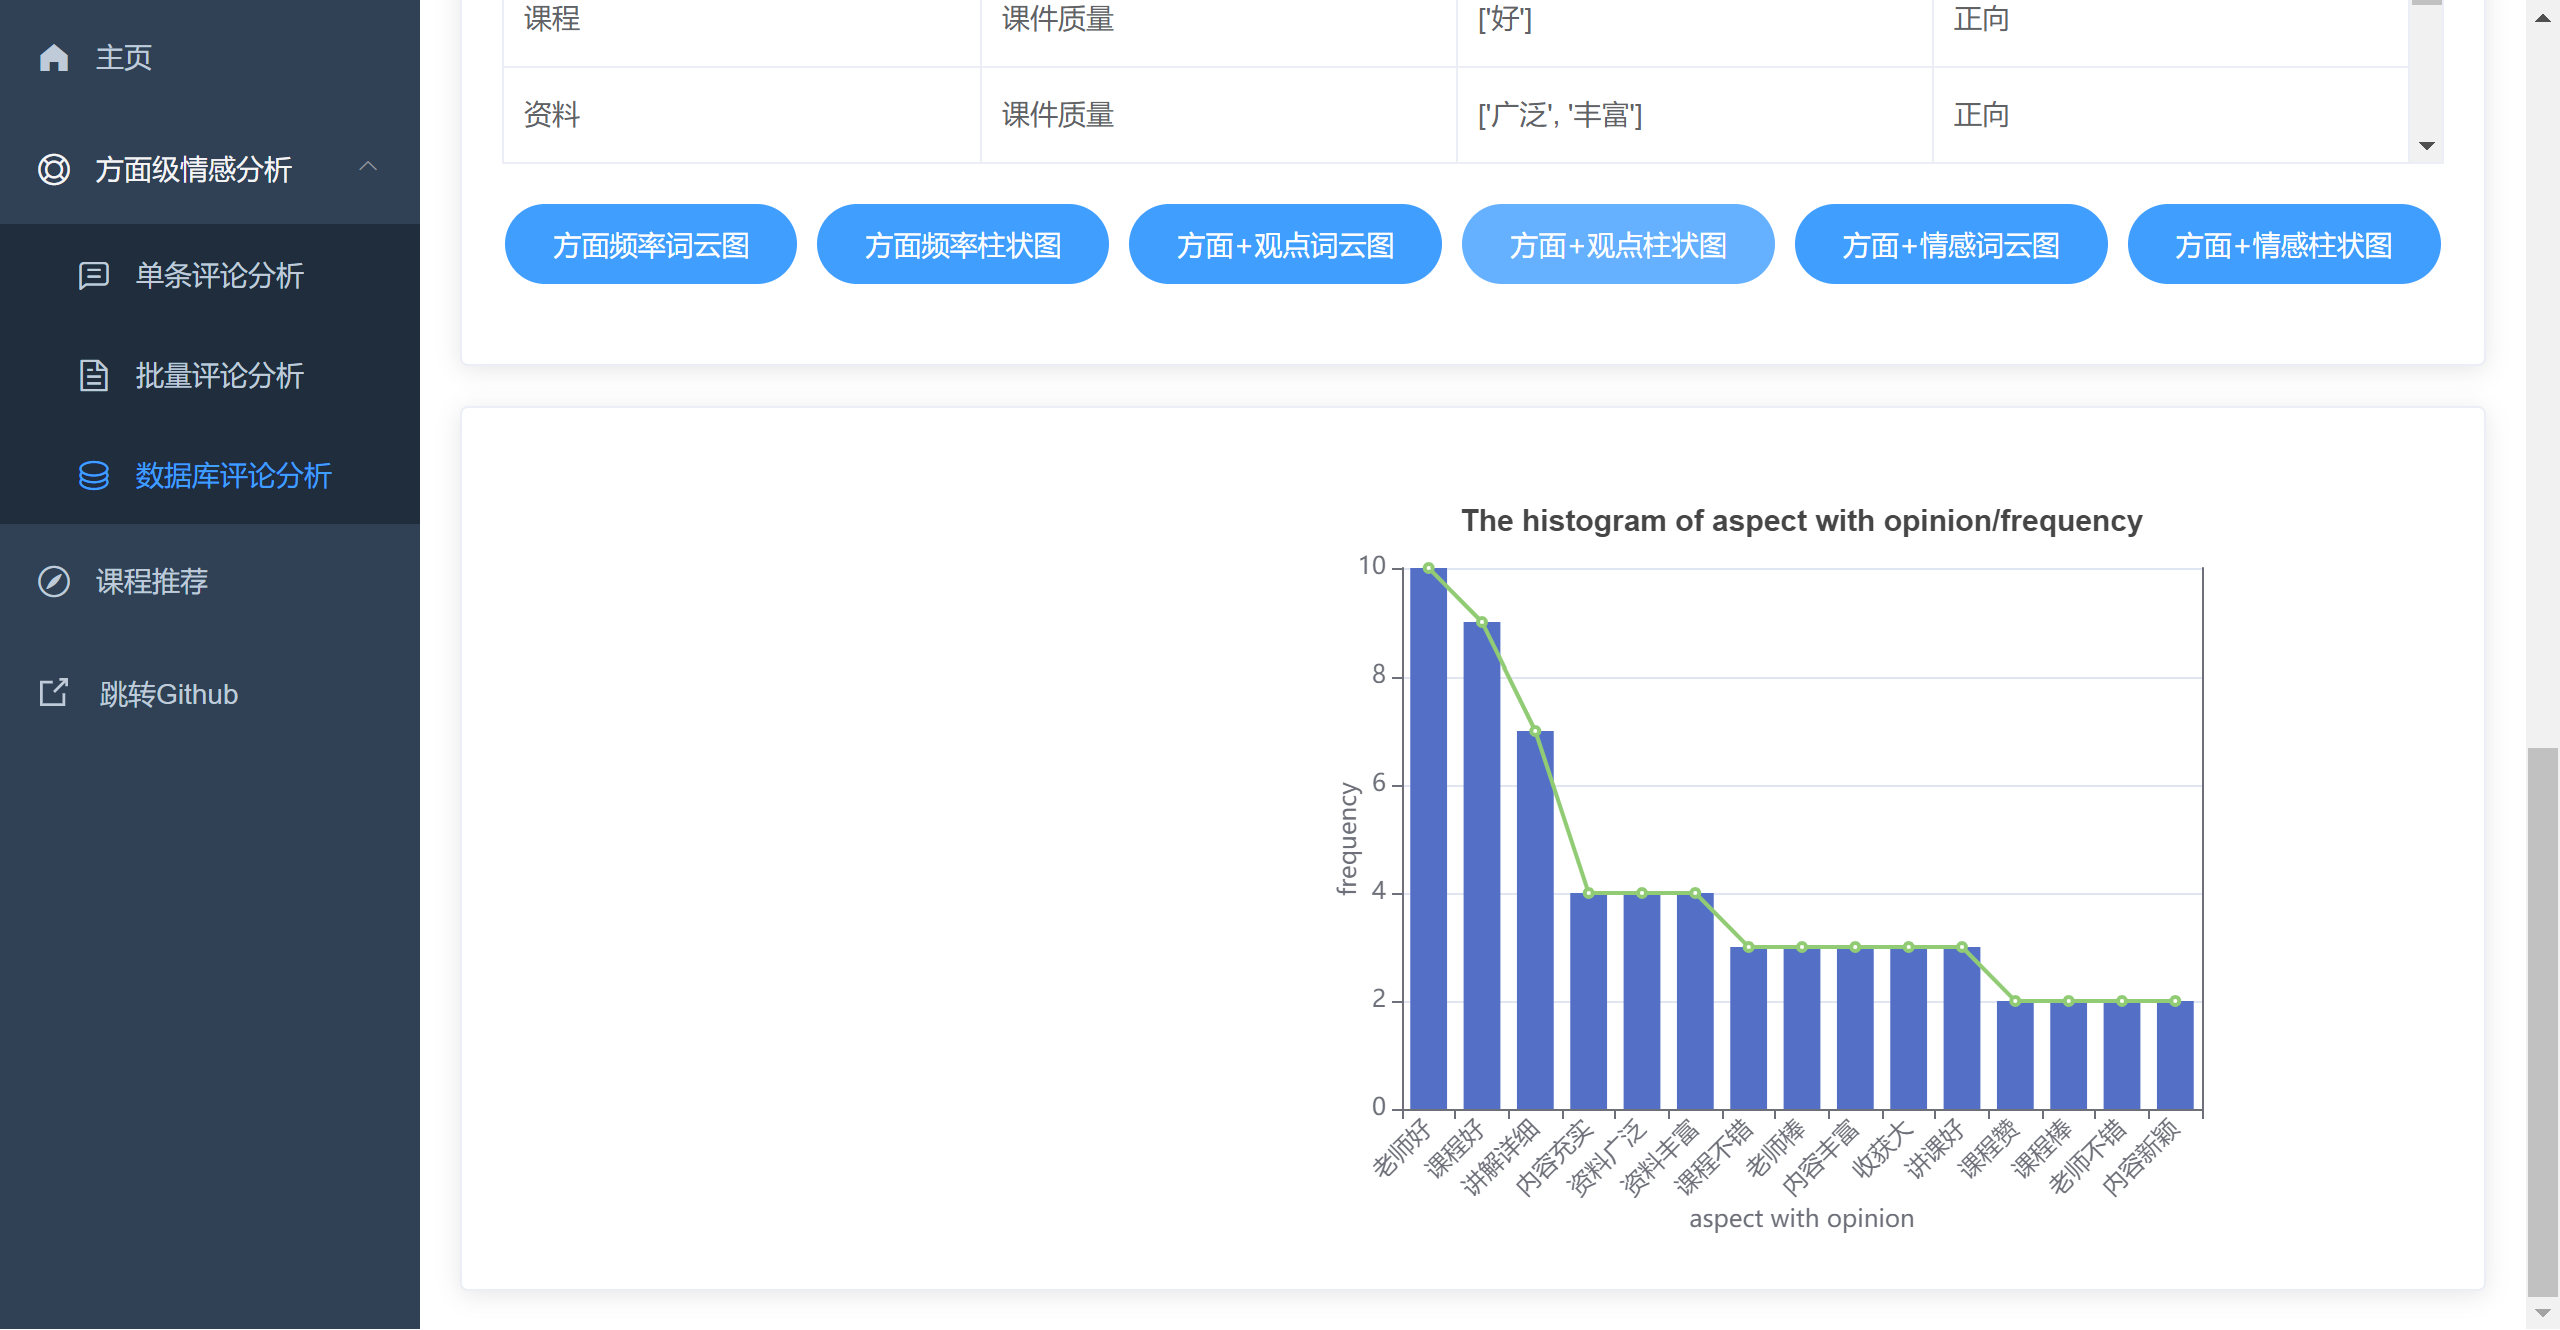
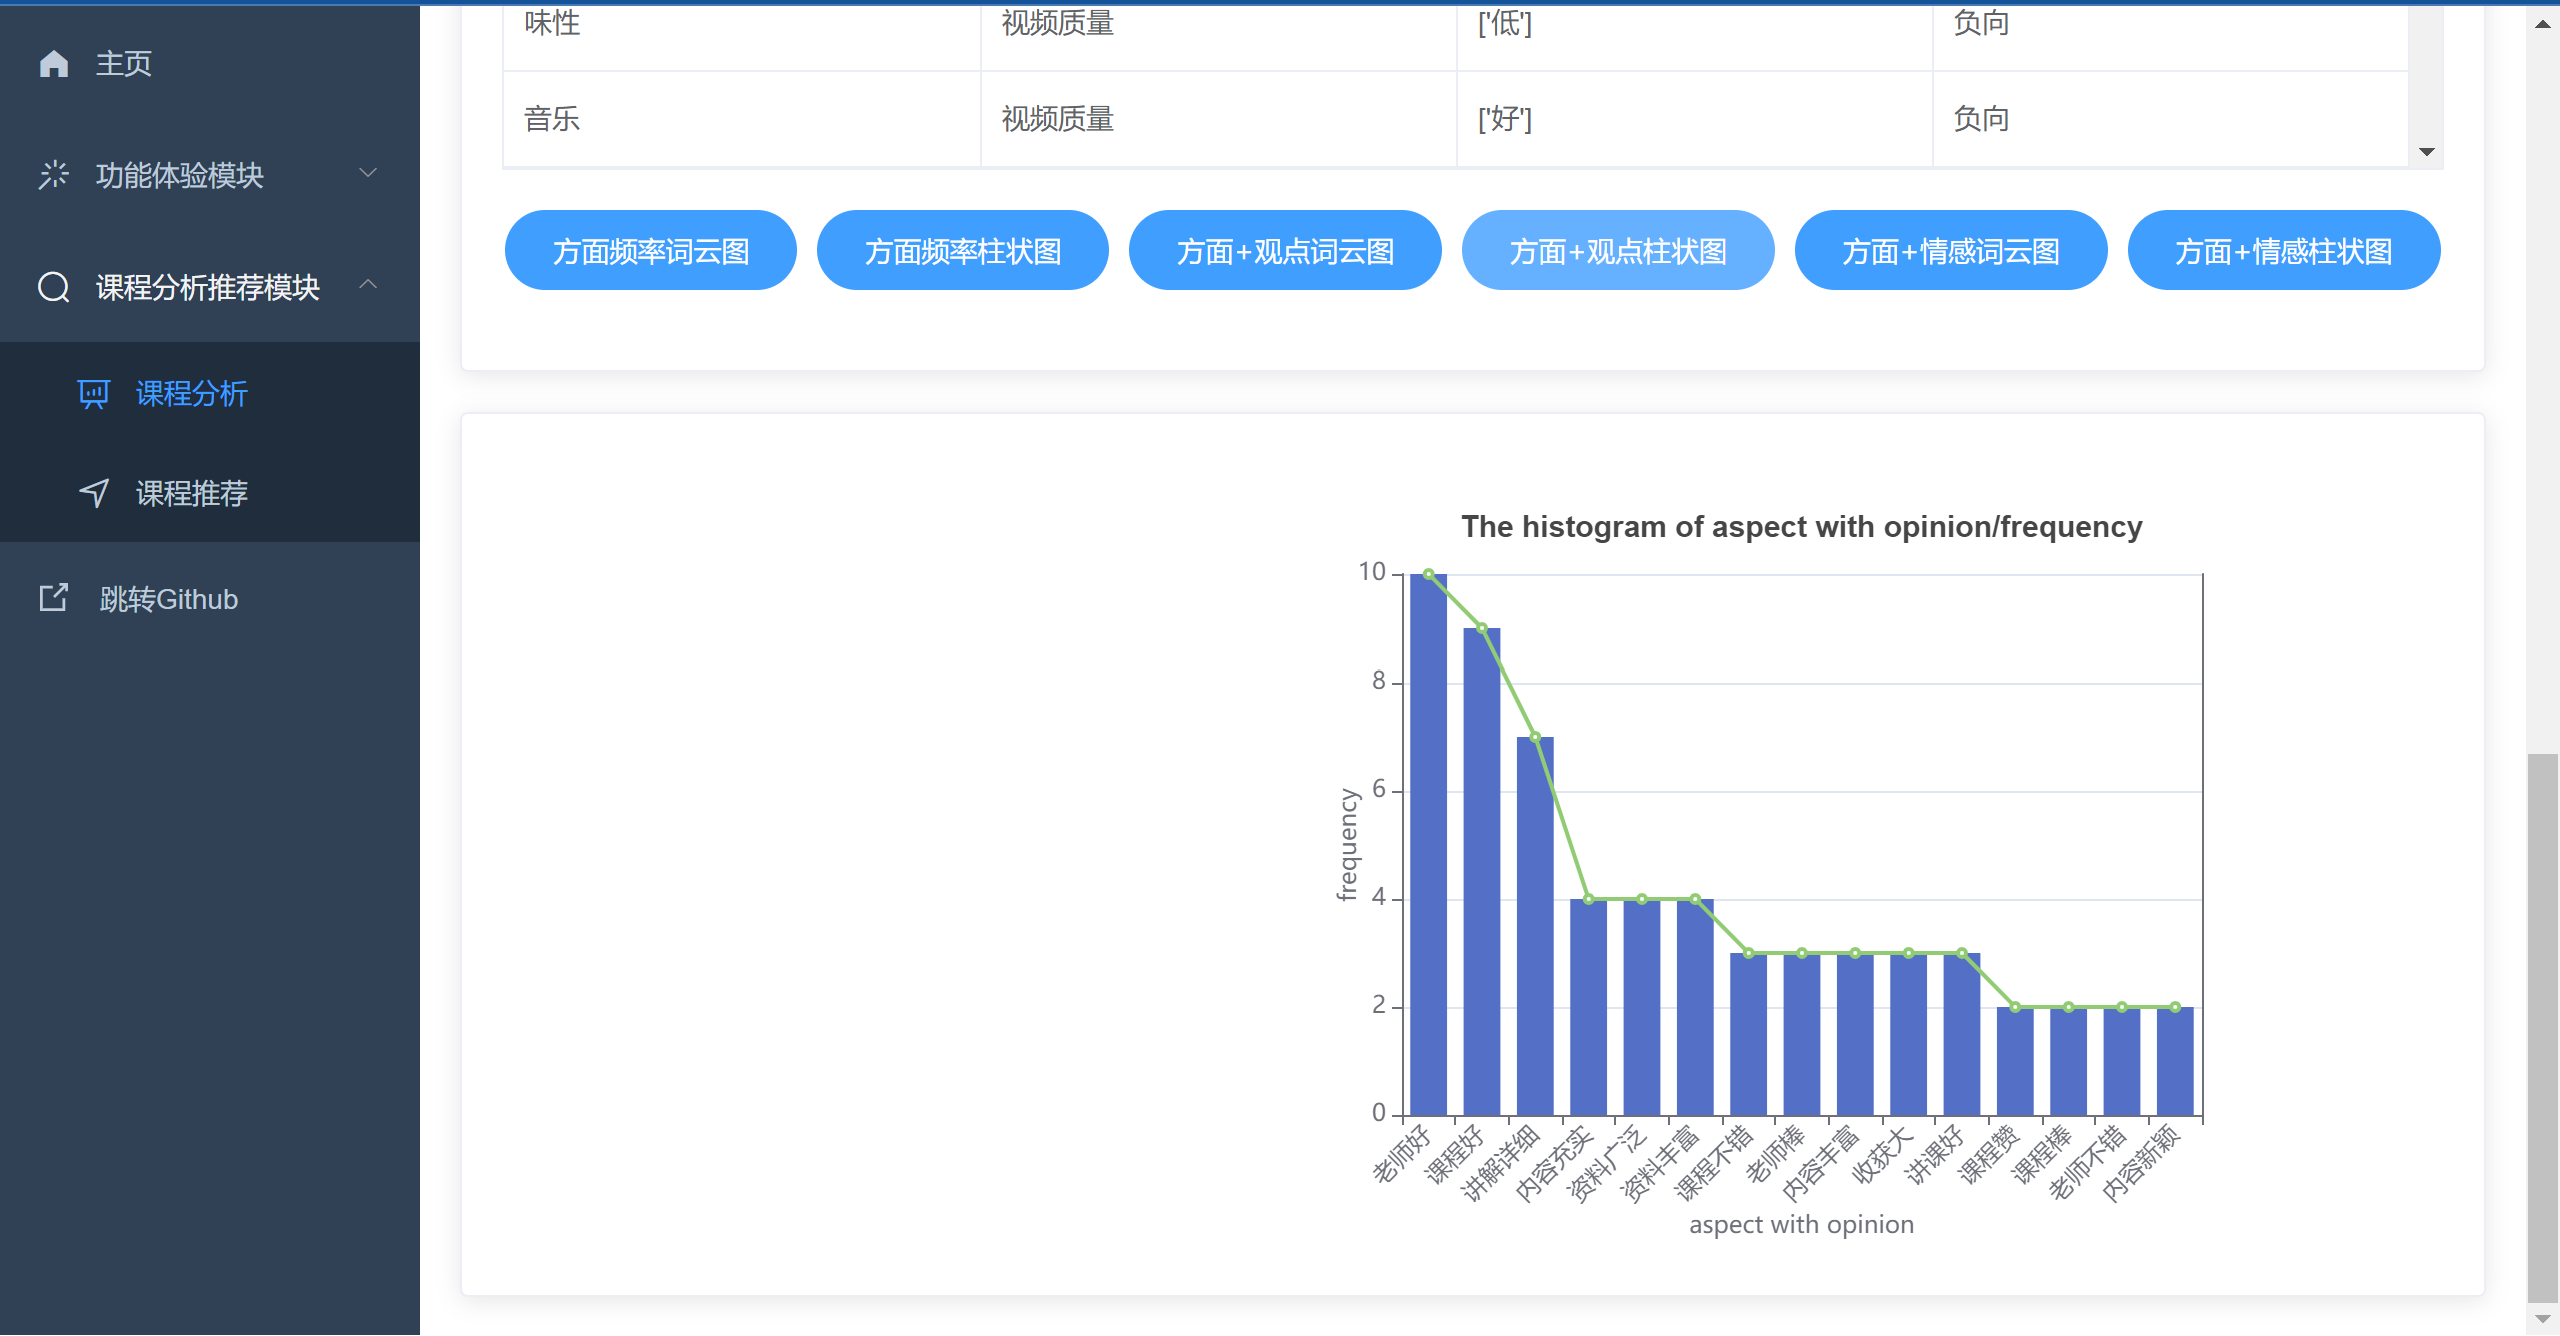
修改：模块重组、难度屏蔽、主壁纸图、全部readme示意图

diff --git a/frontend/src/router/index.js b/frontend/src/router/index.js
@@ -56,11 +56,11 @@ export const constantRoutes = [
   },
 
   {
-    path: '/analysis',
+    path: '/demo',
     component: Layout,
-    redirect: '/analysis/singleAnalysis',
-    name: 'Analysis',
-    meta: { title: '方面级情感分析', icon: 'el-icon-help' },
+    redirect: '/demo',
+    name: 'DEMO',
+    meta: { title: '功能体验模块', icon: 'el-icon-magic-stick' },
     children: [
       {
         path: 'singleAnalysis',
@@ -73,28 +73,28 @@ export const constantRoutes = [
         name: 'batchAnalysis',
         component: () => import('@/views/batchAnalysis/index'),
         meta: { title: '批量评论分析', icon: 'el-icon-document' }
-      },
-      {
-        path: 'dbAnalysis',
-        name: 'dbAnalysis',
-        component: () => import('@/views/dbAnalysis/index'),
-        meta: { title: '数据库评论分析', icon: 'el-icon-coin' }
       }
     ]
   },
 
   {
-    path: '/recommend',
+    path: '/mars',
     component: Layout,
-    redirect: '/recommend',
-    name: 'Recommend',
-    meta: { title: '课程推荐', icon: 'el-icon-discover' },
+    redirect: '/mars',
+    name: 'MARS',
+    meta: { title: '课程分析推荐模块', icon: 'el-icon-search' },
     children: [
+      {
+        path: 'dbAnalysis',
+        name: 'dbAnalysis',
+        component: () => import('@/views/dbAnalysis/index'),
+        meta: { title: '课程分析', icon: 'el-icon-data-analysis' }
+      },
       {
         path: 'recommend',
         name: 'recommend',
         component: () => import('@/views/recommend/index'),
-        meta: { title: '课程推荐', icon: 'el-icon-discover' }
+        meta: { title: '课程推荐', icon: 'el-icon-position' }
       }
     ]
   },

diff --git a/frontend/src/views/recommend/index.vue b/frontend/src/views/recommend/index.vue
@@ -22,7 +22,7 @@
         </el-option>
         </el-select>
         <br/>
-        您最适合的难度:
+        <!-- 您最适合的难度:
         <el-select v-model="difficulty_coefficient" placeholder="请选择您适合的难度" style="padding-top:10px; padding-bottom:10px;">
         <el-option
           v-for="item in difficulty_coefficient_options"
@@ -30,7 +30,7 @@
           :label="item.label"
           :value="item.value">
         </el-option>
-        </el-select>
+        </el-select> -->
       </div>
     </el-card>
     <el-row style="text-align: center; padding-top:20px; padding-bottom:20px;">
@@ -177,6 +177,7 @@ export default {
         that.visible = false
         return
       }
+      /*
       if (that.difficulty_coefficient === '') {
         this.$message({
           showClose: true,
@@ -187,6 +188,7 @@ export default {
         that.visible = false
         return
       }
+      */
       that.visible = true
       that.$message({
         showClose: true,

diff --git a/frontend/src/views/dashboard/index.vue b/frontend/src/views/dashboard/index.vue
@@ -16,7 +16,7 @@ export default {
   name: 'Dashboard',
   data() {
     return {
-      url: require('/src/assets/img/image2.jpg')
+      url: require('/src/assets/img/mars.jpg')
     }
   },
   mounted() {

diff --git a/backend/recommend/main.py b/backend/recommend/main.py
@@ -2,7 +2,7 @@ from backend.recommend.utils import *
 import MySQLdb
 
 # 数据库推荐函数
-def dbRecomm(course_key, concern_category, difficulty_coefficient):
+def dbRecomm(course_key, concern_category, difficulty_coefficient = 0.5):
     """
     Predict based on Taskflow.
     """
